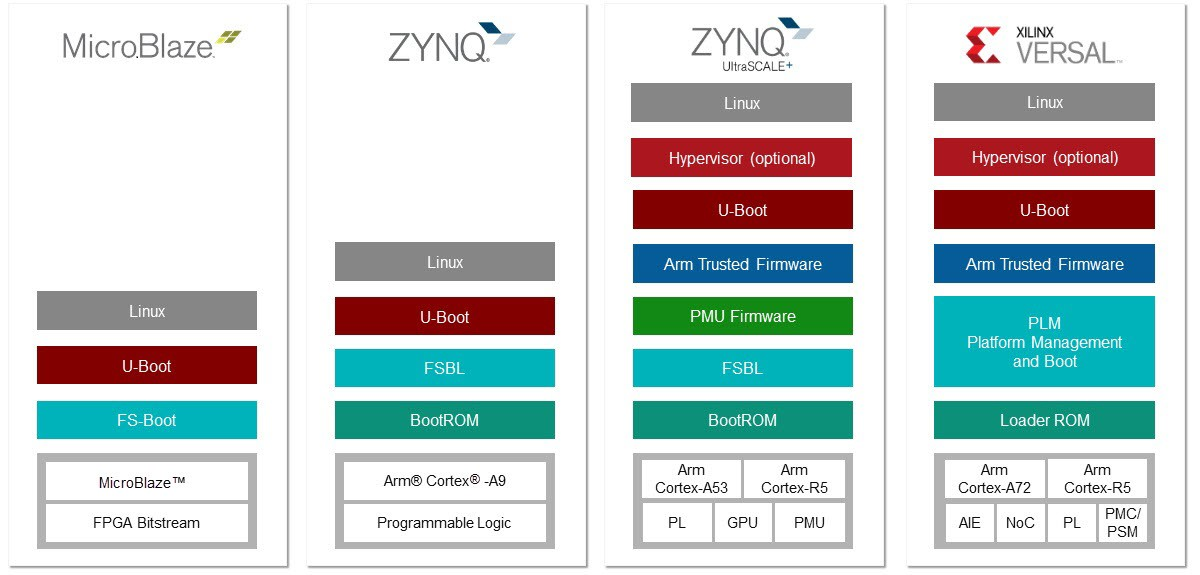
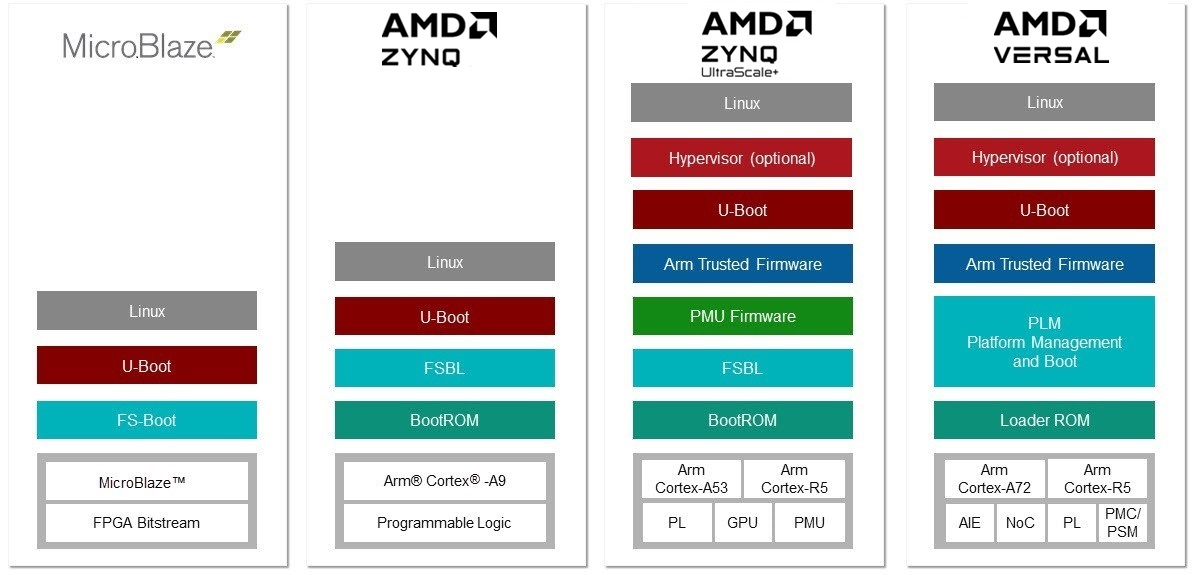
Rebranding changes

diff --git a/docs/README.md b/docs/README.md
@@ -6,17 +6,17 @@
  </tr>
  </table>
 
-Xilinx and its Ecosystem Partners deliver embedded tools and runtime environments designed to enable you to efficiently and quickly move from concept to release. We provide you with all the components needed to create your embedded system using Xilinx Zynq® SoC and Zynq UltraScale+ MPSoC devices, MicroBlaze™ processor cores, and Arm Cortex-M1/M3 micro controllers including open source operating systems and bare metal drivers, multiple runtimes and Multi-OS environments, sophisticated Integrated Development Environments, and compilers, debuggers, and profiling tools.
+AMD and its Ecosystem Partners deliver embedded tools and runtime environments designed to enable you to efficiently and quickly move from concept to release. We provide you with all the components needed to create your embedded system using AMD Zynq™ SoC and AMD Zynq UltraScale+™ MPSoC devices, AMD MicroBlaze™ processor cores, and Arm Cortex-M1/M3 micro controllers including open source operating systems and bare metal drivers, multiple runtimes and Multi-OS environments, sophisticated Integrated Development Environments, and compilers, debuggers, and profiling tools.
 
 <img src="Introduction\Versal-EDT\docs\media\embedded-tutorials-landing.png"></a>
 
-For more information about available embedded tools available from Xilinx, see [Xilinx Embedded Software Infrastructure](https://www.xilinx.com/products/design-tools/embedded-software.html).
+For more information about available embedded tools available from AMD, see [ Embedded Software Infrastructure](https://www.xilinx.com/products/design-tools/embedded-software.html).
 
 This repository provides information about creating embedded designs. The following documents are available.
 
 # Introduction Tutorials
 
-The Embedded Design Tutorials provide an introduction to the embedded flow for Xilinx devices.
+The Embedded Design Tutorials provide an introduction to the embedded flow for AMD devices.
 
  <table style="width:100%">
  <tr>
@@ -25,18 +25,18 @@ The Embedded Design Tutorials provide an introduction to the embedded flow for X
  <td align="center"><b>Description</b></td>
  </tr>
  <tr>
- <td align="center"><a href="Introduction/Versal-EDT/README.md">Versal Adaptive Compute Acceleration Platform</a></td>
+ <td align="center"><a href="Introduction/Versal-EDT/README.md">Versal Adaptive SoC Design Tutorial</a></td>
  <td>
- Versal&trade; ACAP devices</td><td>
-Provides an introduction for using the Xilinx&reg; Vivado&reg; Design Suite flow for a Versal&trade; VMK180/VCK190 evaluation board.</td></tr>
+ Versal devices</td><td>
+Provides an introduction for using the AMD Vivado&trade; Design Suite flow for a Versal VMK180/VCK190 evaluation board.</td></tr>
 <tr>
 <td align="center"><a href="Introduction/ZynqMPSoC-EDT/README.md">Zynq UltraScale+ MPSoC Embedded Design Tutorial</a></td>
-<td>Zynq&reg; UltraScale+&trade; MPSoC devices</td><td>
-Provides an introduction for using the Xilinx Vivado Design Suite flow for using the Zynq UltraScale+ MPSoC device.</td></tr>
+<td>Zynq UltraScale+ MPSoC devices</td><td>
+Provides an introduction for using the Vivado Design Suite flow for using the Zynq UltraScale+ MPSoC device.</td></tr>
 <tr>
 <td align="center"><a href="Introduction/Zynq7000-EDT/README.md">Zynq-7000 SoC Embedded Design Tutorial</a></td>
-<td>Zynq-7000 SoC devices</td><td>
-Provides an introduction for using the Xilinx Vivado Design Suite flow for using the Zynq-7000 SoC device.</td></tr>
+<td>Zynq 7000 SoC devices</td><td>
+Provides an introduction for using the Vivado Design Suite flow for using the Zynq 7000 SoC device.</td></tr>
 </table>
 
 # Feature Tutorials
@@ -81,4 +81,4 @@ Provides an introduction for using the Xilinx Vivado Design Suite flow for using
 
 
 
-<p align="center"><sup>Copyright&copy; 2019-2021 Xilinx</sup></p>
+<p align="center"><sup>Copyright &copy; 2020–2023 Advanced Micro Devices, Inc</sup></p>
